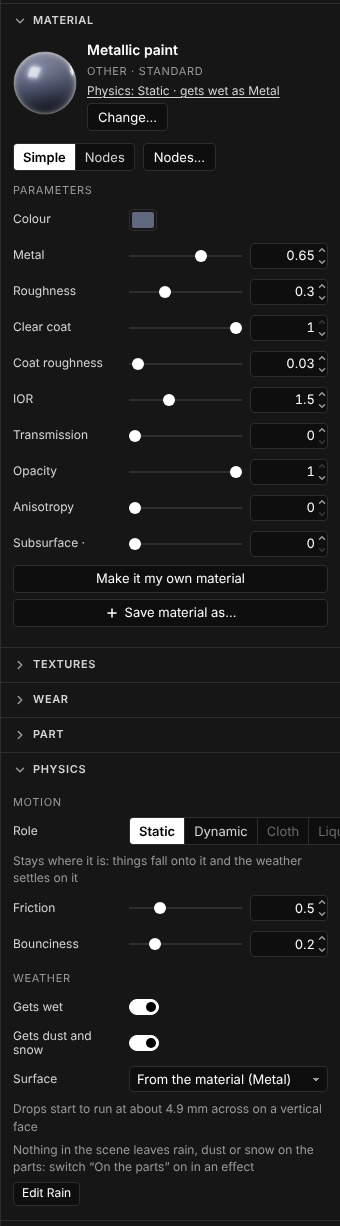
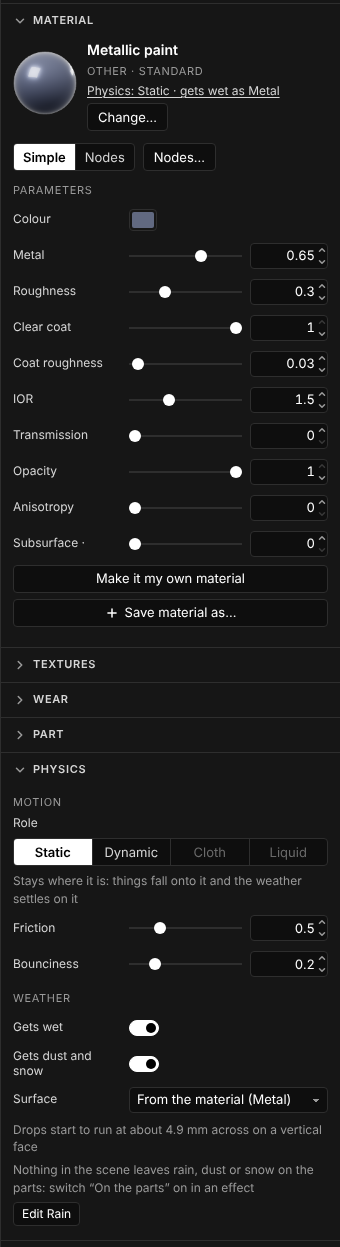
U16: the role under its label so the four roles fit; the judgement calls
The four roles beside the label ran past the inspector's width and clipped
Liquid (in Spanish too). The row is now a wide field; a browser test checks
that no role button runs past the section in English and Spanish, and fails
with the row as it was. The captures are re-recorded.

Claude-Session: https://claude.ai/code/session_01Vyw8CoEN48cqBKpA2hjydX

diff --git a/tests/u16-physics-browser.test.ts b/tests/u16-physics-browser.test.ts
@@ -103,6 +103,32 @@ describe.skipIf(!executablePath)('U16: the physics of each part in one place, in
     }
   }
 
+  it('the four roles fit in the inspector, in English and in Spanish (none is clipped)', async () => {
+    // Mutation checked: the role back beside its label (field without `wide`) clips the last role in both languages.
+    for (const lang of ['en', 'es']) {
+      const context = await browser.newContext({ viewport: { width: 1600, height: 1000 } });
+      const page = await context.newPage();
+      await page.goto(`${url}?lang=${lang}&example=1&tour=0&mode=fast&select=body`, { waitUntil: 'load', timeout: 60000 });
+      await page.waitForSelector('#app[data-ready="1"]', { timeout: 120000 });
+      await settle(page, 300);
+      const clipped = await page.evaluate(() => {
+        const seg = document.querySelector('.side-right [data-field="phys.role"]') as HTMLElement | null;
+        if (!seg) return ['no role control'];
+        // The control may run past its own row: what counts is the section the person sees.
+        const section = seg.closest('[data-section="physics"]') as HTMLElement | null;
+        const box = (section ?? seg).getBoundingClientRect();
+        return [...seg.querySelectorAll('button')]
+          .filter((b) => {
+            const r = b.getBoundingClientRect();
+            return r.right > box.right + 0.5 || r.left < box.left - 0.5 || b.scrollWidth > b.clientWidth + 0.5;
+          })
+          .map((b) => b.textContent ?? '');
+      });
+      expect(clipped, lang).toEqual([]);
+      await context.close();
+    }
+  });
+
   it('Motion and Weather on a part; each role shows its fields; the switches, the surface and the note', async () => {
     const page = await open('select=body');
     let v = await physicsView(page);

diff --git a/src/ui/panels/insp-physics.ts b/src/ui/panels/insp-physics.ts
@@ -98,6 +98,10 @@ function motionGroup(ctx: Ctx, scope: Scope, ids: NodeId[]): HTMLElement {
     { full: true, ariaLabel: t('phys.role') },
   );
   role.el.setAttribute('data-field', 'phys.role');
+  // The four roles do not fit beside a label in the inspector's width (the last one was clipped): the control goes
+  // under its label, the whole width of the section.
+  const roleRow = field(t('phys.role'), role.el);
+  roleRow.classList.add('wide');
   // U16: what the chosen role does, in one line.
   const roleLine = h('p', { class: 'note', style: 'margin:0', 'data-field': 'phys.roleLine' });
   const inherits = h('p', { class: 'note', style: 'margin:0' });
@@ -168,7 +172,7 @@ function motionGroup(ctx: Ctx, scope: Scope, ids: NodeId[]): HTMLElement {
     'div',
     { class: 'stack', 'data-phys-group': 'motion' },
     h('div', { class: 'subhead' }, t('phys.motion')),
-    field(t('phys.role'), role.el),
+    roleRow,
     roleLine,
     inherits,
     densityRows,

diff --git a/docs/ROADMAP.md b/docs/ROADMAP.md
@@ -14515,7 +14515,7 @@ it changes mean luminance and saturation by less than 0.1 %).
 - **S3c** · Drops and dust on the parts: rain that settles, runs and drips over the meshes, snow, the wet mark on the material and dust per part (S3b, “S3c”); and a warning when the engine lacks bit 7 and the scene's glass would come out clean. **Done in part**: the warning (and the bit 8 one) and everything that happens on still parts, in the engine and in *Fast*; drops through the air, dust motes, moving parts and the studio floor, **S3d** (see S3c and S3d, after S3b). **Done in part**: see S3c; the rest, S3d.
 - **S3d** · What remains of drops and dust on the parts: dripping and splashes that fall through the air, dust motes, dynamic parts getting wet, the studio floor, finer samples on the set, the drops' part id and the meter text (S3c, “S3d”). **Done in part**: the meter text, the drops' part id in the passes and the dripping and splashes that fall through the air (in the simulation, the engine and *Fast*); the dust motes, moving parts, the studio floor and the set's fine samples, **S3e** (see S3d and S3e, after S3c).
 - **S3e** · The dust motes, dynamic parts that get wet as they move, the studio floor that gets wet and dusty, and the set's fine samples (S3d, “S3e”); and the wind pushing the drops in the air (S3d ◆2). **Done**: see S3e, after S3d; its ◆ decided in *Judgement calls*.
-- **S3f** · Organic drops (the owner's request of 2026-10-18): drops that grow to their critical size and let go, gather the drops on their path, merge with a neck and no jump, leave a rivulet on a steep face, take shapes from their physics (in the engine, `WETP`'s shape tail with bit 10, and in *Fast*), and hang, neck and drip one drop at a time. **Done**: see S3f, after S3e; its ◆ to decide.
+- **S3f** · Organic drops (the owner's request of 2026-10-18): drops that grow to their critical size and let go, gather the drops on their path, merge with a neck and no jump, leave a rivulet on a steep face, take shapes from their physics (in the engine, `WETP`'s shape tail with bit 10, and in *Fast*), and hang, neck and drip one drop at a time. **Done**: see S3f, after S3e; its ◆ decided in *Judgement calls*.
 
 - **O2** (the traced-lens sheet). Accepted as it stands:
   - which lenses give cat's eye, bubble, creamy and swirl;
@@ -14616,6 +14616,7 @@ it changes mean luminance and saturation by less than 0.1 %).
 - **S3f** (organic drops). Accepted as it stands: ◆1, the shape exaggeration (`PIN_STRETCH` 1, `SLIDE_STRETCH` 2, `SLIDE_TAPER` 0.45, `MAX_ASPECT` 4, `HANG_SAG` 0.6, the bulge without a gain): the running drop reads as a drop that runs, not as an ellipse, and the volume is kept; ◆2, the neck (`NECK_DEPTH` 0.5, profile (1−u²)²); ◆3, the hanging drop (`PINCH_TIMES` 3, `HANG_PINCH` 0.6, and Harkins–Brown's 60 % that falls); ◆4, `MERGE_TIMES` = 4 capillary times, so two drops visibly flow into one instead of jumping; ◆5, the rivulet (`RUN_REAR_SHARE` 0.8, `RUN_WIDTH` 0.2, `RUN_BEAD` 3, `RUN_RELAX_TIMES` 60, `COX_VOINOV_LOG` 12): a run on a steep face and none at 25°, as the strip shows; ◆6, every open edge holds the drop that reaches it, which hangs and lets go from rest, replacing S3d ◆4. **A drop that runs along a side edge** of a tilted plate, instead of stopping there, goes to **S3e** with the rest of the edges' behaviour.
 - **X7** (the AI through an API). Accepted as it stands: ◆1, both presets ship (Stability SD 3.5 image-to-image and OpenAI image edits), each written from the service's published OpenAPI document and marked *not verified* in the interface until a run against the live service confirms it; ◆2, the depth and edge passes stay off by default, so only the image leaves the computer unless the user asks; ◆3, 120 s per call, 2 tries and a 30 s cap on `Retry-After`: the cost of a render (tiles × attempts × tries) is bounded and the setting says each try may be charged; ◆4, the consent wording, asked in place under the switch, per host and revocable; ◆5, in the browser the key lives in local storage with the warning shown under it; ◆6, plain `http` only to this computer: a service on the local network needs `https`. Plain `http` to a private address, with its own warning, is left for a later phase if it is asked for.
 - **S3e** (the studio floor, moving parts, fine samples, dust motes, the wind on the drops in the air, side edges). Accepted as it stands: ◆1, a drop on a moving part feels gravity minus the part's acceleration, the jolt of a landing included, and meets the rain at the rain's velocity minus the part's: the frame is the part's, as it physically is; ◆2, the floor's rectangle is the union of the feeding effects' regions, at z = 0; ◆3, 2 mm floor cells within 250,000; ◆4, the floor is a film, with no puddles and no splashes off it: **puddles and the splashes off the floor are left for a later phase**, if they are asked for; ◆5, the shadow catcher keeps its layers (cover for dust and snow, a water Fresnel film as a mirror of roughness 0.03); ◆6, the wet catcher darkens as a porous grey of 0.5 by `0.5^(wet×0.5)`, and a visible floor is a matte diffuse under its layers; ◆7, the fine samples of 2 mm where a shadow edge crosses, within 300,000 and up to 4,095 steps a side: the strip shows the coarse sawtooth gone and a 2 mm one left only at macro framing; ◆8, the motes (threshold 0.3, `MOTE_SHARE` 0.02, the octahedron a third of its radius out of the surface, dry dust, 20,000 at most); ◆9, the air of the drops in the air is the rain effects' wind weighted by their densities; ◆10, a drop at a sloping side edge runs along it with its face's hold before it would hang, and the lowest edge and corner keep S3f ◆6. That the studio floor stays dry under a set's own floor is right: the set's floor is a part, and it gets wet as one.
+- **U16** (the physics of each part in one place). Accepted as it stands: ◆1, `WATER_REPELLENT` at 120° advancing and 105° receding, no soak and no darkening, from Ray and Bartell (1953): a wax or coating on a product, whose drops run off at about 1.9 mm on a vertical face; ◆2, two flags (`PART_DRY`, no water; `PART_NO_DUST`, no dust or snow), and a drop in the air that meets a dry part is gone and counted as lost water; ◆3, the size line as it is (twice the critical contact radius on a vertical face, one decimal, a range for several families, *It keeps dry* when all are dry); ◆4, the drawer's counts as they are; ◆5, friction and bounciness for a static part too, since S2 uses both; ◆6, the mixed switch and that a click turns every part on; ◆7, the Spanish names (*Movimiento*, *Intemperie*, *Se moja*, *Coge polvo y nieve*, *Superficie*, *Hidrófugo*); ◆8, the pointer under the material's name. The role goes under its label, so that the four roles fit (the lead's change at review). That the example's metallic paint wets as *Metal* and its paper label as *Paint* (`wettabilityFamilyOf`, S3c) goes to **S3g** with the rest of the wettability table.
 
 **1.9** (double bar in aintfilm's LUT carousel) belongs to another
 repository; the triage notes that Repackshot also draws the plugin's recipe
@@ -15158,6 +15159,11 @@ captures; `npm run qa` and the engine's gates green.
 - **The example's paper label wets as Paint**: `wettabilityFamilyOf` (S3c, ◆)
   gives no material the *Paper* family; U16 does not change that mapping, and
   *Surface* now lets a part take *Paper*.
+- **The role goes under its label** (the lead, at review): beside it, the four
+  roles did not fit the inspector's width and *Liquid* was clipped (in Spanish too);
+  the row is now `field … wide`, the control the whole width of the section, and
+  `tests/u16-physics-browser.test.ts` checks that no role button runs past the
+  section, in English and in Spanish (it fails with the row as it was).
 - **The inspector's tests run in Chromium**, as U15's: vitest runs in Node
   without a DOM, so the sentences are tested in Node (`ui/physics-lines.ts`) and
   the DOM through Vite in a real browser.
